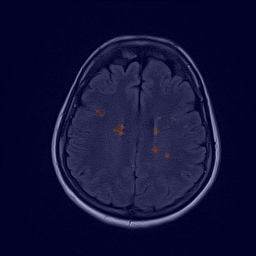
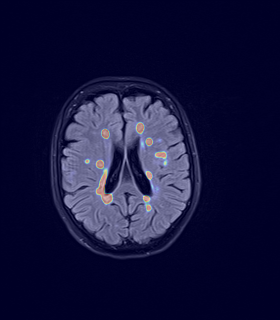
.

diff --git a/inference.py b/inference.py
@@ -10,7 +10,7 @@ from model import UNet
 device = torch.device("cuda" if torch.cuda.is_available() else "cpu")
 
 model = UNet()
-checkpoint = torch.load("unet_mri_model.pth", map_location=device)
+checkpoint = torch.load("unet_mri_regularized.pth", map_location=device)
 model.load_state_dict(checkpoint['model_state_dict'])
 model.to(device)
 model.eval()
